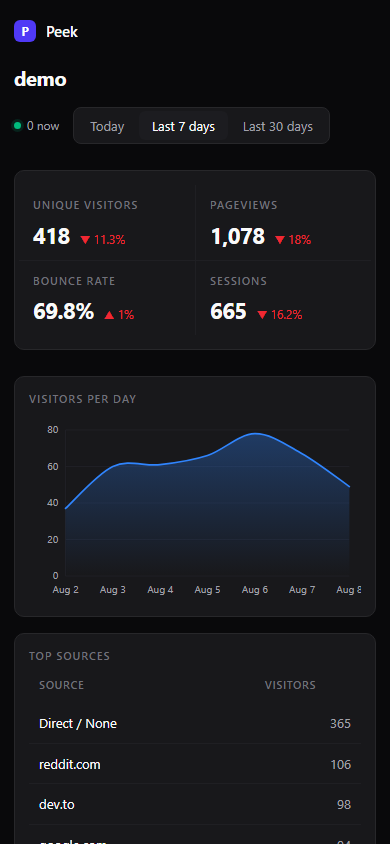
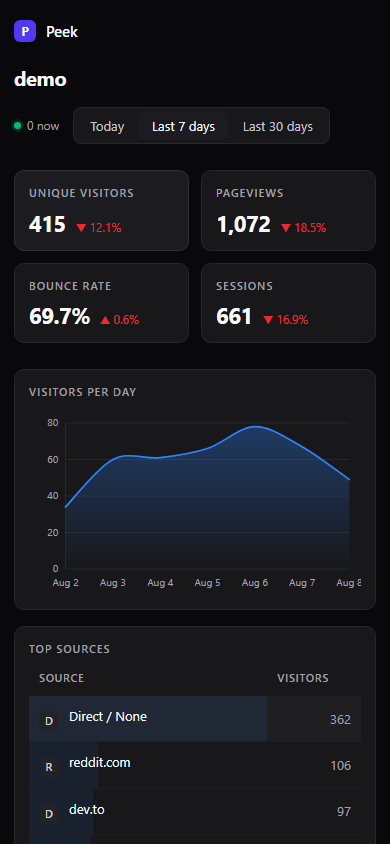
round 5: KPI cards as individual boxes with highlighted primary, table monogram glyphs + share bars + top-row highlight, brighter pill/labels/headers, lighter gridlines, mobile bottom padding 72px

diff --git a/views/dashboard.html b/views/dashboard.html
@@ -18,28 +18,32 @@ body{background:var(--bg);color:var(--txt);font:14px/1.5 system-ui,-apple-system
 .live{display:inline-flex;align-items:center;gap:6px;color:var(--mut);font-size:12px}
 .live i{width:7px;height:7px;border-radius:50%;background:var(--up);box-shadow:0 0 0 3px rgba(0,188,125,.15)}
 .ranges{display:flex;gap:2px;background:var(--panel);border:1px solid var(--line);border-radius:8px;padding:3px}
-.ranges a{color:var(--mut);text-decoration:none;padding:5px 13px;border-radius:6px;font-size:13px;transition:background .15s,color .15s}
+.ranges a{color:#c7c7ce;text-decoration:none;padding:5px 13px;border-radius:6px;font-size:13px;transition:background .15s,color .15s}
 .ranges a:hover{color:var(--txt)}
 .ranges a.on{background:var(--panel2);color:var(--txt)}
-.kpis{display:grid;grid-template-columns:repeat(4,1fr);background:var(--panel);border:1px solid var(--line);border-radius:10px;padding:20px 6px;margin-bottom:26px}
-.kpi{padding:0 18px}
-.kpi+.kpi{border-left:1px solid var(--line2)}
-.kpi h3{font-size:11px;text-transform:uppercase;letter-spacing:.09em;color:var(--dim);font-weight:500;margin-bottom:9px}
+.kpis{display:grid;grid-template-columns:repeat(4,1fr);gap:16px;margin-bottom:26px}
+.kpi{background:var(--panel);border:1px solid var(--line);border-radius:10px;padding:18px 20px}
+.kpi:first-child{background:var(--panel2);border-color:#303038}
+.kpi h3{font-size:11px;text-transform:uppercase;letter-spacing:.09em;color:var(--mut);font-weight:500;margin-bottom:9px}
 .kpi .valrow{display:flex;align-items:baseline;gap:10px;flex-wrap:wrap}
 .kpi .num{font-size:26px;font-weight:650;letter-spacing:-.02em;font-variant-numeric:tabular-nums;line-height:1.1}
 .tr{display:inline-block;font-size:12px;font-variant-numeric:tabular-nums}
 .tr.up{color:var(--up)}.tr.down{color:var(--down)}.tr.flat{color:var(--dim)}
 .card{background:var(--panel);border:1px solid var(--line);border-radius:10px;padding:18px 20px;margin-bottom:16px}
-.card h2{font-size:11px;text-transform:uppercase;letter-spacing:.09em;color:var(--dim);font-weight:500;margin-bottom:12px}
+.card h2{font-size:11px;text-transform:uppercase;letter-spacing:.09em;color:var(--mut);font-weight:500;margin-bottom:12px}
 .grid2{display:grid;grid-template-columns:1fr 1fr;gap:16px}
 table{width:100%;border-collapse:collapse}
-th{color:var(--dim);font-weight:500;text-align:left;font-size:11px;text-transform:uppercase;letter-spacing:.06em;padding:0 10px 10px}
-td{padding:10px 10px;border-bottom:1px solid var(--line2);font-size:13px;color:var(--mut)}
+th{color:var(--mut);font-weight:500;text-align:left;font-size:11px;text-transform:uppercase;letter-spacing:.06em;padding:0 10px 10px}
+td{padding:10px 10px;border-bottom:1px solid var(--line2);font-size:13px;color:var(--mut);position:relative}
 tbody tr{transition:background .12s}
 tbody tr:hover{background:rgba(255,255,255,.02)}
+tbody tr.top td{background:rgba(255,255,255,.03)}
 td:first-child{color:var(--txt)}
 td:last-child{text-align:right;font-variant-numeric:tabular-nums;color:var(--mut)}
 tr:last-child td{border-bottom:none}
+.bar{position:absolute;left:0;top:0;bottom:0;background:rgba(48,133,254,.09);z-index:0}
+.mono{display:inline-flex;width:20px;height:20px;border-radius:5px;background:#232327;color:#d4d4d8;align-items:center;justify-content:center;font-size:11px;font-weight:600;margin-right:10px;vertical-align:-4px;position:relative;z-index:1}
+.nm{position:relative;z-index:1}
 .empty{color:var(--dim);font-size:13px;padding:10px 2px}
 .chart{width:100%;height:auto;display:block}
 .chart text{font-size:12px;fill:#a1a1aa}
@@ -47,13 +51,10 @@ tr:last-child td{border-bottom:none}
 @media (max-width:760px){
   .chart-d{display:none}
   .chart-m{display:block}
-  .wrap{padding:20px 14px 48px}
+  .wrap{padding:20px 14px 72px}
   .sitebar{flex-direction:column;align-items:flex-start;gap:14px}
-  .kpis{grid-template-columns:repeat(2,1fr);padding:14px 4px}
-  .kpi{padding:12px 14px}
-  .kpi+.kpi{border-left:none}
-  .kpi:nth-child(even){border-left:1px solid var(--line2)}
-  .kpi:nth-child(n+3){border-top:1px solid var(--line2)}
+  .kpis{grid-template-columns:repeat(2,1fr);gap:12px}
+  .kpi{padding:14px}
   .kpi .num{font-size:22px}
   .grid2{grid-template-columns:1fr}
   .card{padding:14px 14px}

diff --git a/server.js b/server.js
@@ -63,10 +63,13 @@ function trend(cur, prev, invert) {
 
 function rows(data, nameKey, countKey = 'pv', headers = ['Source', 'Visitors']) {
   if (!data.length) return `<div class="empty">Nothing yet</div>`;
+  const max = Math.max(1, data[0][countKey]);
   return `<table><thead><tr><th>${headers[0]}</th><th>${headers[1]}</th></tr></thead><tbody>` +
-    data.map(r =>
-      `<tr><td>${esc(r[nameKey] || 'Direct / None')}</td><td class="n">${lib.fmt(r[countKey])}</td></tr>`
-    ).join('') + '</tbody></table>';
+    data.map((r, i) => {
+      const name = r[nameKey] || 'Direct / None';
+      const pct = Math.round((r[countKey] / max) * 100);
+      return `<tr${i === 0 ? ' class="top"' : ''}><td><span class="bar" style="width:${pct}%"></span><span class="mono">${esc((name[0] || '?').toUpperCase())}</span><span class="nm">${esc(name)}</span></td><td class="n">${lib.fmt(r[countKey])}</td></tr>`;
+    }).join('') + '</tbody></table>';
 }
 
 const COUNTRIES = { IN: 'India', US: 'United States', GB: 'United Kingdom', DE: 'Germany', FR: 'France', NL: 'Netherlands', IE: 'Ireland', BR: 'Brazil', AU: 'Australia', SG: 'Singapore', MY: 'Malaysia', RU: 'Russia', ZA: 'South Africa', JP: 'Japan', CA: 'Canada', AE: 'UAE', PK: 'Pakistan', BD: 'Bangladesh', NG: 'Nigeria', KE: 'Kenya', ES: 'Spain', IT: 'Italy', SE: 'Sweden', CH: 'Switzerland', PL: 'Poland', UA: 'Ukraine', TR: 'Turkey', ID: 'Indonesia', TH: 'Thailand', VN: 'Vietnam', PH: 'Philippines', KR: 'South Korea', TW: 'Taiwan', HK: 'Hong Kong', NZ: 'New Zealand', MX: 'Mexico', AR: 'Argentina', CO: 'Colombia', EG: 'Egypt', IL: 'Israel', FI: 'Finland', NO: 'Norway', DK: 'Denmark', AT: 'Austria', BE: 'Belgium', PT: 'Portugal', CZ: 'Czechia', RO: 'Romania', GR: 'Greece', HU: 'Hungary' };

diff --git a/lib.js b/lib.js
@@ -175,10 +175,10 @@ function buildChart(points, mode, { w, h, padL, padR, padT, padB, cls, gid, nX }
   const X = i => padL + (points.length === 1 ? iw / 2 : (i / (points.length - 1)) * iw);
   const Y = v => padT + ih - (v / max) * ih;
   let out = '';
-  out += `<line x1="${padL}" y1="${padT}" x2="${padL}" y2="${padT + ih}" stroke="#222228" stroke-width="1"/>`;
+  out += `<line x1="${padL}" y1="${padT}" x2="${padL}" y2="${padT + ih}" stroke="#2b2b31" stroke-width="1"/>`;
   for (let g = 0; g <= 4; g++) {
     const v = (max / 4) * g, y = Y(v);
-    out += `<line x1="${padL}" y1="${y}" x2="${w - padR}" y2="${y}" stroke="#222228" stroke-width="1"/>`;
+    out += `<line x1="${padL}" y1="${y}" x2="${w - padR}" y2="${y}" stroke="#2b2b31" stroke-width="1"/>`;
     out += `<text x="${padL - 9}" y="${y + 4}" text-anchor="end">${fmt(v)}</text>`;
   }
   const pts = points.map((p, i) => [X(i), Y(p.uv)]);
